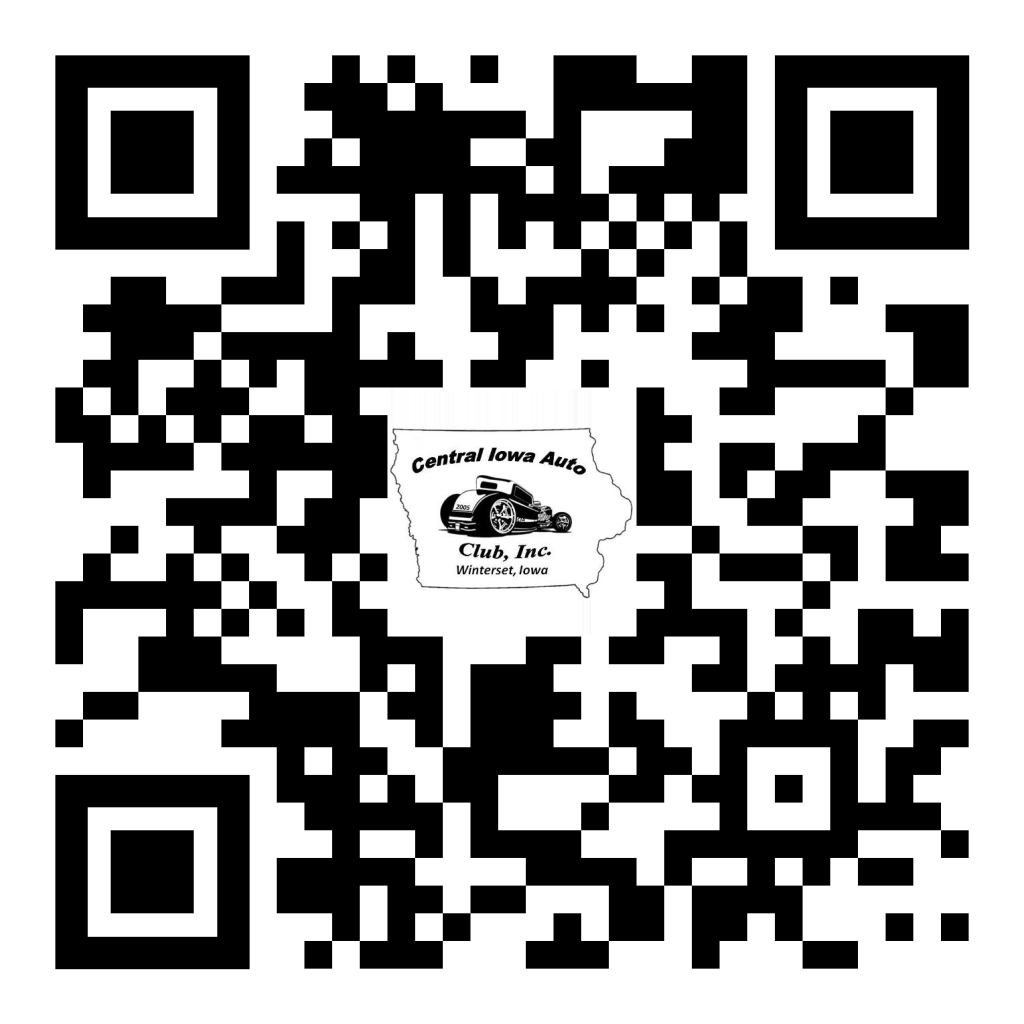
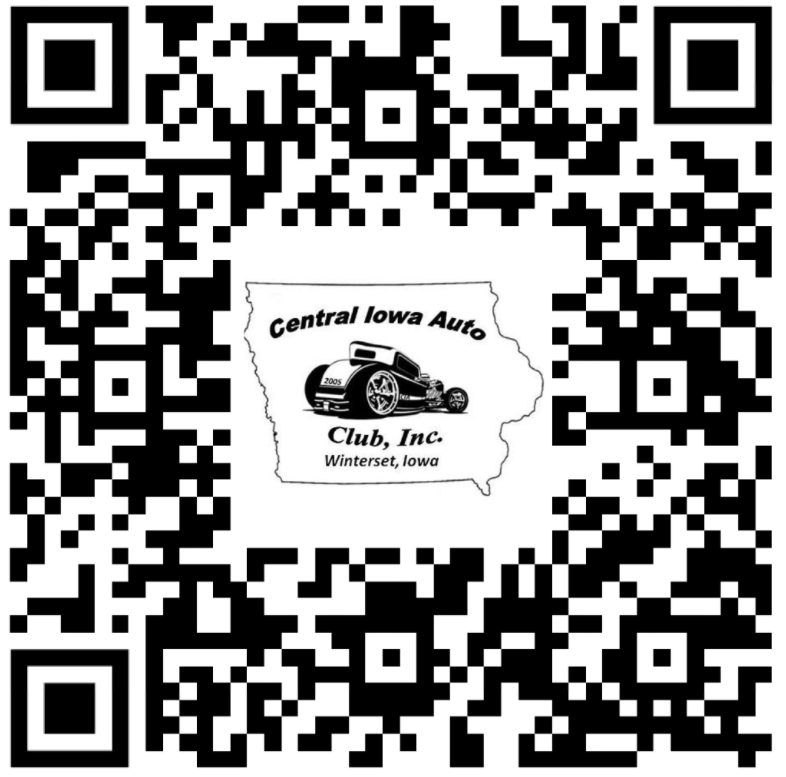
fix qr code

diff --git a/index.html b/index.html
@@ -53,7 +53,6 @@
 						<li><a href="#aboutus" class="scroll-link">About us</a></li>
 					</ul>
 				</div>
-				<!--/.navbar-collapse-->
 			</nav>
 			<!--/.navbar-->
 		</div>
@@ -87,7 +86,7 @@
 					</div>
 					<div class="col-lg-12" id="registration">
 						<h2>Madison County Car Show Registration</h2>
-						<a class="link" href="http://qrto.ai/u-qNWBT1" target="_blank" rel="noopener noreferrer">Click
+						<a class="link" href="https://docs.google.com/forms/d/1m5nOByZeYqRFjCNwHqY4eih8n1Kw9zZOmJSQU6OFnCQ/edit" target="_blank" rel="noopener noreferrer">Click
 							here</a>
 						<h2>Or scan</h2>
 						<img src="images/2024-MCCS-Registration.png" style="width: 50%">

diff --git a/css/styles.css b/css/styles.css
@@ -177,7 +177,9 @@ a:hover {
     font-size: 1.2em;
 }
 
-.navbar-inverse .navbar-nav > .active > a, .navbar-inverse .navbar-nav > .active > a:hover, .navbar-inverse .navbar-nav > .active > a:focus {
+.navbar-inverse .navbar-nav > .active > a, 
+.navbar-inverse .navbar-nav > .active > a:hover, 
+.navbar-inverse .navbar-nav > .active > a:focus {
     color: #fff;
     background-color: #fb6c00;
 }
